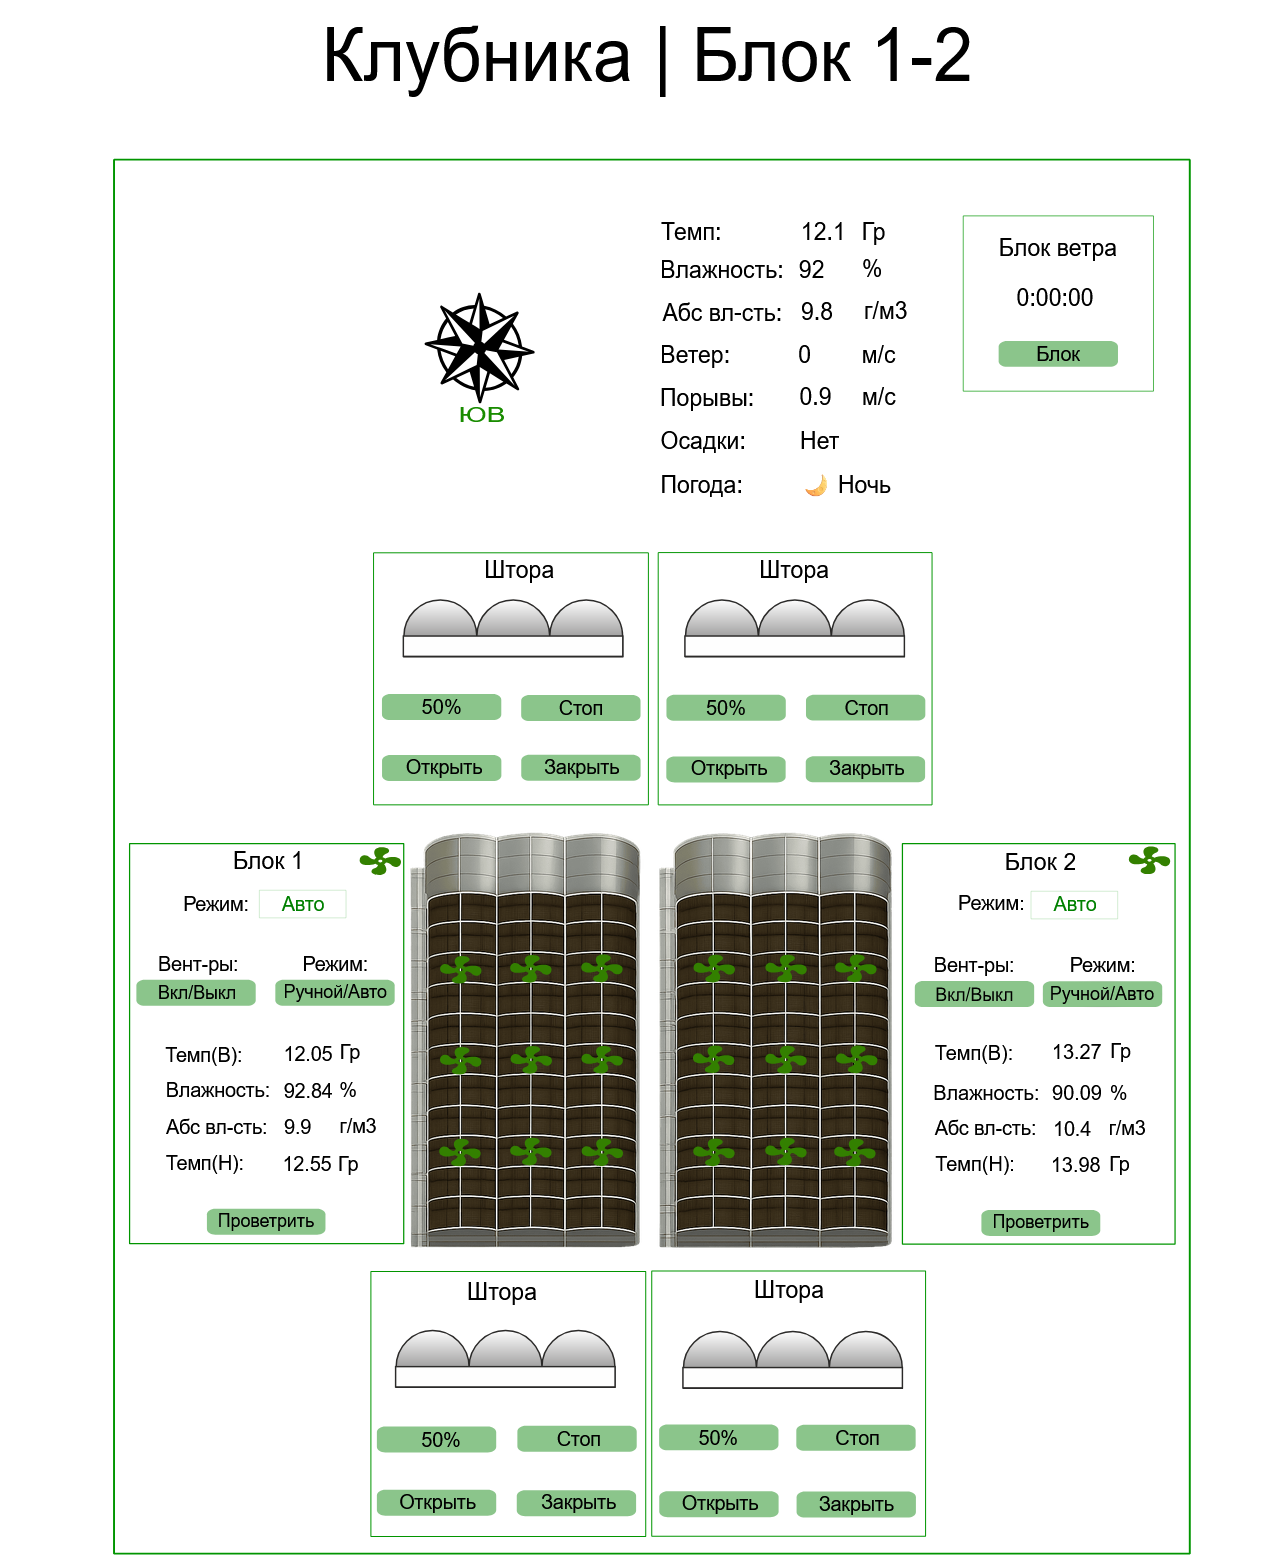
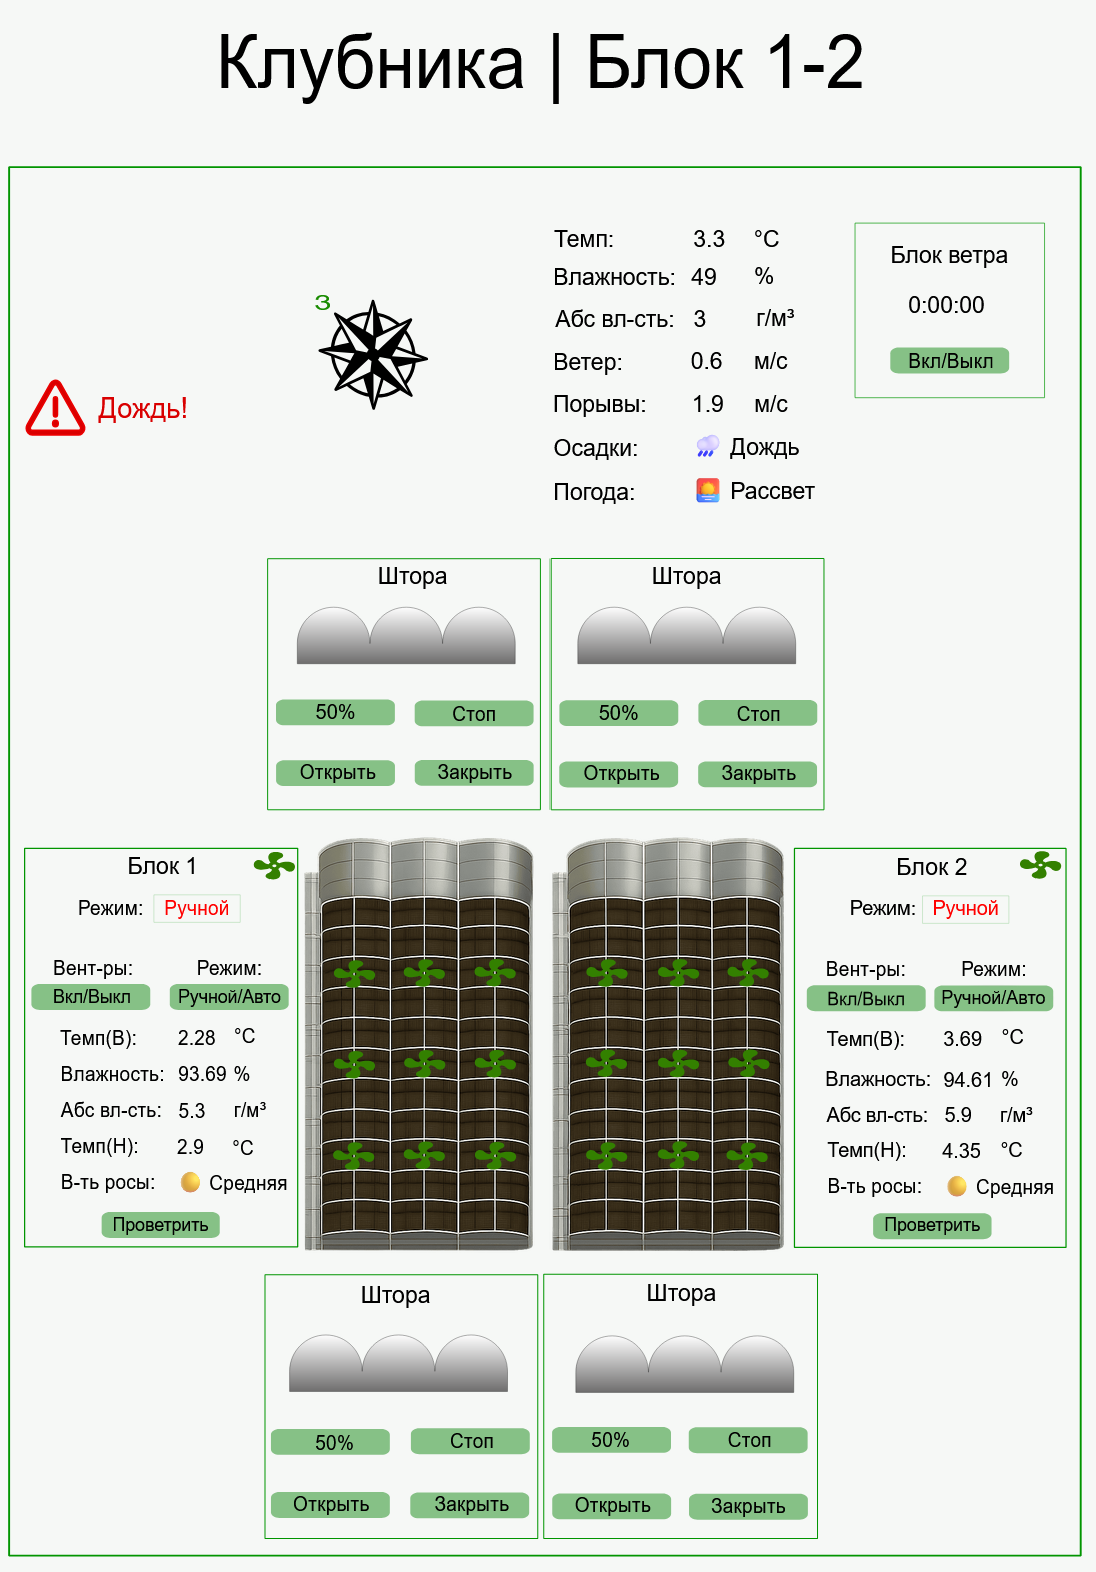
Update strawberry_greenhouse_*.md: правки интегратора (#677)
* Update SVG panel screenshot in strawberry_greenhouse_ventilation_automation

* Update strawberry greenhouse cases: integrator edits

* Clarify dawn and dusk imitation in strawberry_greenhouse_lighting_automation

diff --git a/content/ru/solutions/strawberry_greenhouse_ventilation_automation.md b/content/ru/solutions/strawberry_greenhouse_ventilation_automation.md
@@ -35,9 +35,9 @@ category: agriculture_automation
 
 Система автоматизации должна:
 
-- поддерживать заданную температуру в теплицах, управляя шторами и вентиляторами;
-- поддерживать заданную влажность в теплицах, управляя шторами и вентиляторами;
-- закрывать шторы и не открывать их, если скорость ветра выше заданной.
+- поддерживать заданную температуру и влажность в теплицах, управляя шторами и вентиляторами;
+- проводить ночные проветривания/микропроветривания для создания комфортного микроклимата;
+- закрывать шторы при опасных порывах ветра.
 
 :gallery{
     :data='[
@@ -67,7 +67,7 @@ category: agriculture_automation
         ["strawberry_greenhouse_ventilation_automation/5.jpg", "Щит блока: Wiren Board 8, WB-MR6CU v.2 и WB-MR6C v.2"],
         ["strawberry_greenhouse_ventilation_automation/6.jpg", "Щит шторы: WB-MR6CU v.2, WB-MR6C v.2 и контакторы привода"],
         ["strawberry_greenhouse_ventilation_automation/7.jpg", "Уличные щиты штор у торца блока"],
-        ["strawberry_greenhouse_ventilation_automation/8.png", "Главная SVG-панель"],
+        ["strawberry_greenhouse_ventilation_automation/8.png", "Главная SVG-панель: шторы, микроклимат блоков и вероятность выпадения росы"],
         ["strawberry_greenhouse_ventilation_automation/9.png", "История средней влажности в верхней части двух блоков"],
         ["strawberry_greenhouse_ventilation_automation/10.png", "Telegram-бот: текущая сводка"]
     ]'
@@ -99,6 +99,8 @@ category: agriculture_automation
 В теплые ночи шторы остаются открытыми, но в центре теплицы влажность выше, чем у торцов. Ее выравнивают вентиляторы, которые включаются циклами: например, при влажности выше 85 % они работают 20 минут, а затем стоят 120.
 
 Проветривание включается и по расписанию — например, перед утренним сбором урожая.
+
+На SVG-панели для каждого блока видна вероятность выпадения росы. За ней следят, чтобы на растениях не развивались грибковые и другие болезни.
 
 ### Защита от ветра
 

diff --git a/content/ru/solutions/strawberry_greenhouse_lighting_automation.md b/content/ru/solutions/strawberry_greenhouse_lighting_automation.md
@@ -54,7 +54,9 @@ category: agriculture_automation
 
 ### Досвечивание
 
-По технологической карте определяются нужная растениям плотность потока фотосинтетически активных фотонов (PPFD), время начала и длительность восхода и заката. Затем каждую секунду контроллер оценивает освещенность и подстраивает яркость светильников.
+Оператор задает по технологической карте нужную растениям плотность потока фотосинтетически активных фотонов (PPFD), время начала и длительность рассвета и заката. Контроллер каждую секунду оценивает освещенность и подстраивает яркость светильников так, чтобы растения получали заданный PPFD.
+
+Рассвет и закат автоматика имитирует за счет диммирования светильников: досвечивание плавно включается и плавно выключается. Так растения не испытывают стресса в эти периоды.
 
 Вклад солнца программа считает отдельно: по текущей мощности и световому потоку включенных светильников она оценивает их долю, а остальное приходится на солнечный свет. Разделять их нужно, потому что коэффициенты пересчета из люксов в PPFD у солнца и светильников разные.
 
